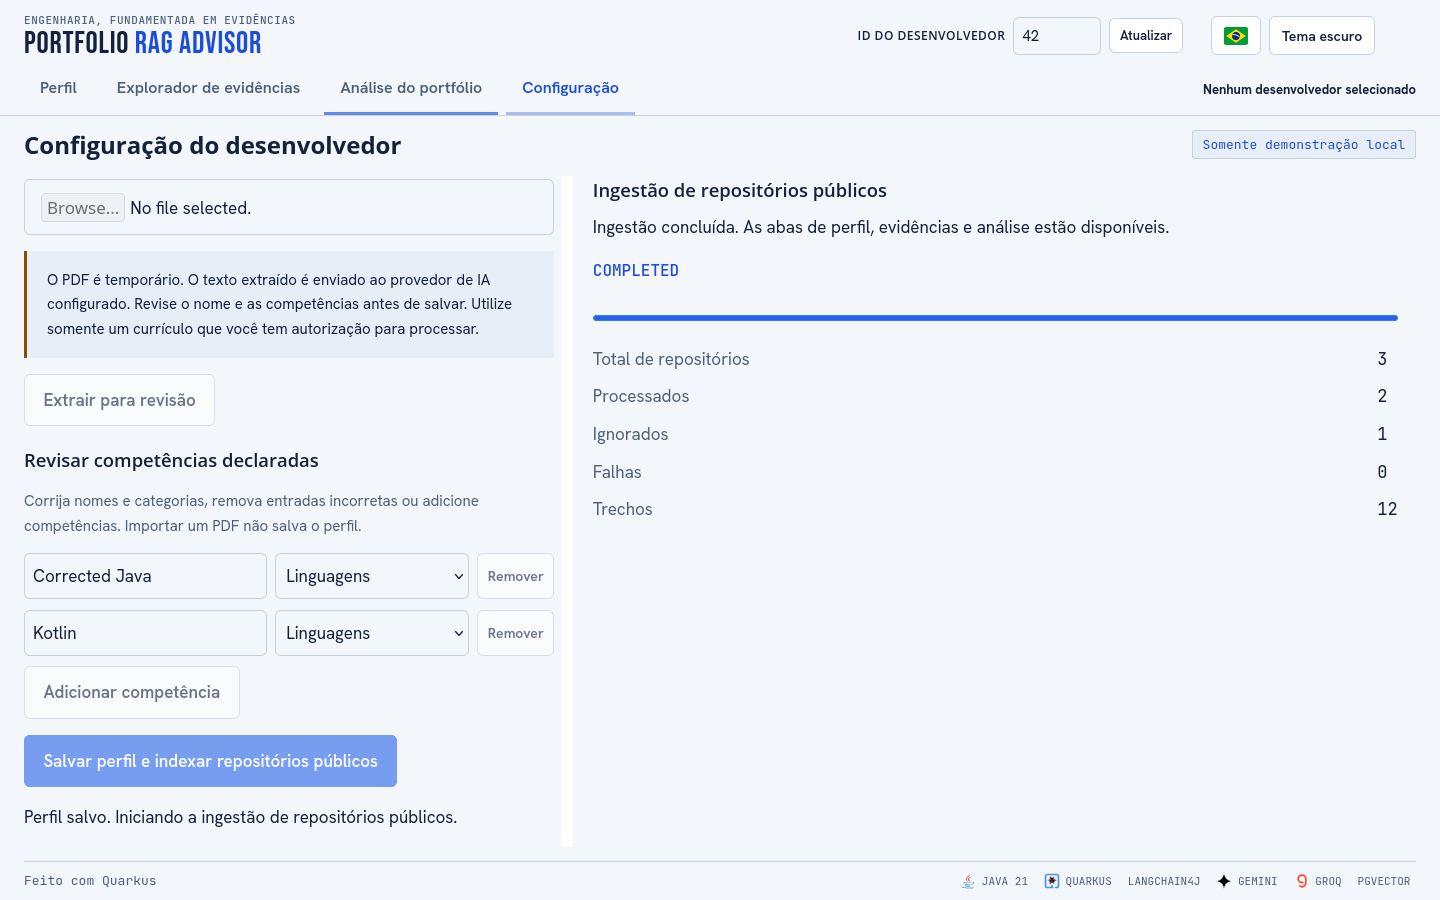
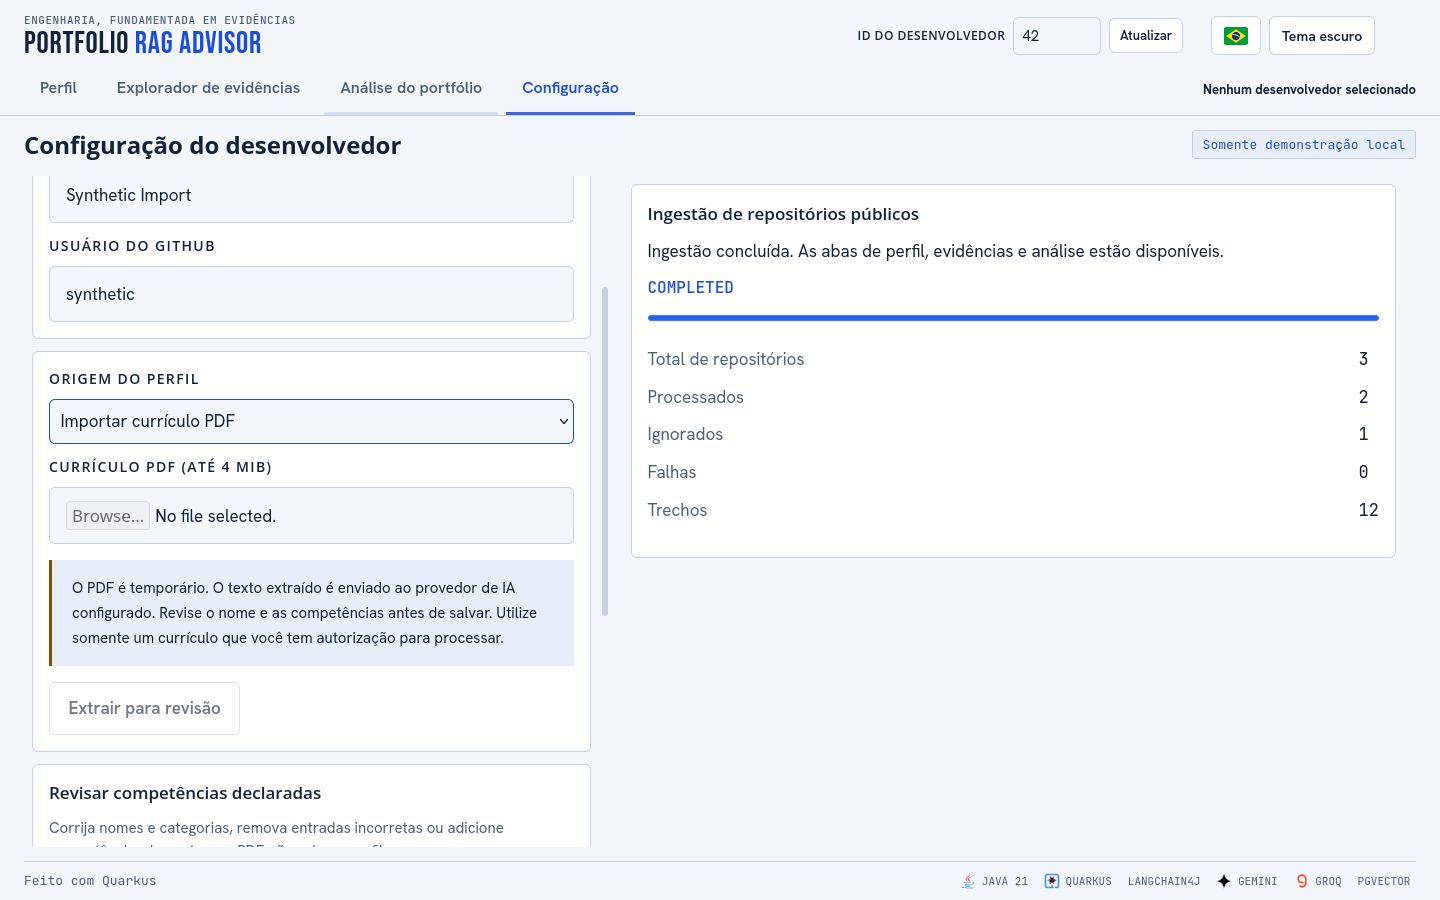
test(ui): verify consistent workspace cards and profile grouping

diff --git a/src/test/java/dev/erickmurakami/portfolio/interfaces/rest/PortfolioPageResourceTest.java b/src/test/java/dev/erickmurakami/portfolio/interfaces/rest/PortfolioPageResourceTest.java
@@ -35,6 +35,9 @@ class PortfolioPageResourceTest {
         assertTrue(html.contains("id=\"advisor-result\" aria-busy=\"false\"></div>"));
         assertFalse(html.contains("Advisor is unavailable in this environment"));
         assertFalse(html.contains("Private Repository 1"));
+        assertTrue(html.contains("class=\"workbench card-workbench\""));
+        assertTrue(html.contains("class=\"workspace-card setup-submit\""));
+        assertTrue(html.contains("aria-describedby=\"retrieval-help\""));
         assertTrue(html.contains("id=\"advisor-state\""));
         assertTrue(html.contains("class=\"advisor-card advisor-question-card\""));
         assertTrue(html.contains("aria-describedby=\"advisor-help\""));

diff --git a/README.md b/README.md
@@ -297,3 +297,15 @@ analysis content is synthetic and no AI provider is called.
 ![Status after changing the developer](docs/images/advisor-empty.png)
 
 <img src="docs/images/advisor-mobile.png" alt="Analysis cards on a small screen, with a complete textarea focus border" width="390">
+
+## Consistent workspace cards
+
+Retrieval and Setup use the same card surface, border, radius and spacing as the
+Advisor. Their forms, actions and status/progress are grouped without changing API
+contracts or request behavior. The declared stack remains grouped by the real
+skill categories, with local technology logos and text fallbacks. Browser QA checks
+card rendering, field focus boundaries, state retention and both themes.
+
+![Retrieval cards in dark theme](docs/images/retrieval-dark-pt.png)
+
+![Setup cards in dark theme](docs/images/setup-dark-pt.png)
